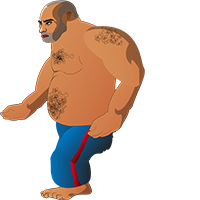
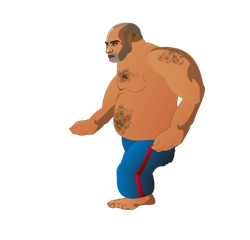
fixes
Fixed Android font
resized enemy images
fixed “const” problem in release version
fixed posting scores to FB
added native platform detection

diff --git a/src/anim/SplashAnim.js b/src/anim/SplashAnim.js
@@ -6,22 +6,22 @@
 
 import ui.View as View;
 import src.anim.Ball as Ball;
-import src.anim.BallView as BallView;
+import src.anim.Ballview as BallView;
 import animate;
 
-const FPS = 15;
-const TIME_firstBounce = 2;
-const TIME_secondBounce = 2;
-const TIME_thirdBounce = 2;
-const TIME_roll = 2;
-const X_firstHit = 1/3;
-const X_secondHit = 2/3;
-const X_thirdHit = 5/6;
-const Y_Floor = PiuPiuGlobals.winSize.height - PiuPiuConsts.fontSizeSmall;
-const BOUNCE_firstHit = 8;
-const BOUNCE_secondHit = 8;
-const BOUNCE_thirdHit = 5;
-const BOUNCE_roll = 3;
+/** @const */ var FPS = 15;
+/** @const */ var TIME_firstBounce = 2;
+/** @const */ var TIME_secondBounce = 2;
+/** @const */ var TIME_thirdBounce = 2;
+/** @const */ var TIME_roll = 2;
+/** @const */ var X_firstHit = 1/3;
+/** @const */ var X_secondHit = 2/3;
+/** @const */ var X_thirdHit = 5/6;
+/** @const */ var Y_Floor = PiuPiuGlobals.winSize.height - PiuPiuConsts.fontSizeSmall;
+/** @const */ var BOUNCE_firstHit = 8;
+/** @const */ var BOUNCE_secondHit = 8;
+/** @const */ var BOUNCE_thirdHit = 5;
+/** @const */ var BOUNCE_roll = 3;
 
 exports = Class(View, function(supr) {
     this.init = function (opts) {
@@ -30,11 +30,11 @@ exports = Class(View, function(supr) {
     };
 
     this.build = function () {
-        const BALL_SIZE = 32;
-        const FIRST_BOUNCE_TIME = 2000;
-        const SECOND_BOUNCE_TIME = 2000;
-        const THIRD_BOUNCE_TIME = 2000;
-        const FOURTH_BOUNCE_TIME = 2000;
+        /** @const */ var BALL_SIZE = 32;
+        /** @const */ var FIRST_BOUNCE_TIME = 2000;
+        /** @const */ var SECOND_BOUNCE_TIME = 2000;
+        /** @const */ var THIRD_BOUNCE_TIME = 2000;
+        /** @const */ var FOURTH_BOUNCE_TIME = 2000;
         this.Y_FLOOR = (PiuPiuGlobals.winSize.height - BALL_SIZE - PiuPiuConsts.fontSizeSmall);
 
         //  Points of ground hit

diff --git a/src/views/MainMenu.js b/src/views/MainMenu.js
@@ -5,9 +5,9 @@ import animate;
 
 import src.anim.MainMenuAnim as MainMenuAnim;
 
-const yGap = 10;
-const startY = 100;
-const widthRatio = 0.8;
+/** @const */ var yGap = 10;
+/** @const */ var startY = 100;
+/** @const */ var widthRatio = 0.8;
 
 exports = Class(ImageView, function (supr) {
     this.init = function (opts) {
@@ -206,11 +206,11 @@ exports = Class(ImageView, function (supr) {
         }
 
         this.isAnimatingFBLogin = true;
-        const SHAKE_TIME = 50;
-        const BIAS = 20;
-        const LEFT = (PiuPiuGlobals.winSize.width - this.FB_LOGO_SIZE - BIAS) / 2;
-        const RIGHT = (PiuPiuGlobals.winSize.width - this.FB_LOGO_SIZE + BIAS) / 2;
-        const CENTER = (PiuPiuGlobals.winSize.width - this.FB_LOGO_SIZE ) / 2;
+        /** @const */ var SHAKE_TIME = 50;
+        /** @const */ var BIAS = 20;
+        /** @const */ var LEFT = (PiuPiuGlobals.winSize.width - this.FB_LOGO_SIZE - BIAS) / 2;
+        /** @const */ var RIGHT = (PiuPiuGlobals.winSize.width - this.FB_LOGO_SIZE + BIAS) / 2;
+        /** @const */ var CENTER = (PiuPiuGlobals.winSize.width - this.FB_LOGO_SIZE ) / 2;
 
         animate(this.FBlogo).now({x: LEFT},SHAKE_TIME).
             then({x: CENTER}, SHAKE_TIME).
@@ -238,7 +238,7 @@ exports = Class(ImageView, function (supr) {
         }
 
         this.isAnimatingText = true;
-        const TEXT_TIME = 10000;
+        /** @const */ var TEXT_TIME = 10000;
 
         animate(this.FBtext).now({x: -1 * this.FBtext.style.width}, TEXT_TIME, animate.linear).
             then(this.resetFBText.bind(this));

diff --git a/src/Application.js b/src/Application.js
@@ -1,7 +1,7 @@
 import ui.StackView as StackView;
 import src.data.resources;
-import src.data.globals;
 import src.utilities.Utilities;
+import src.data.globals;
 import src.utilities.GameUtilities;
 import src.utilities.AudioUtilities;
 import src.utilities.AnimationUtilities;
@@ -22,8 +22,8 @@ import src.anim.LevelAnim as LevelAnim;
 
 import ui.TextView;
 
-const BOUNDS_WIDTH = 720;
-const BOUNDS_HEIGHT = 1280;
+/** @const */ var BOUNDS_WIDTH = 720;
+/** @const */ var BOUNDS_HEIGHT = 1280;
 
 exports = Class(GC.Application, function () {
 
@@ -39,7 +39,7 @@ exports = Class(GC.Application, function () {
             clip: true
         });
 
-        const ANIMATING_SCENES_TIME = 500;
+        /** @const */ var ANIMATING_SCENES_TIME = 500;
 
         this.splash = new Splash();
         this.mainMenu = new MainMenu();
@@ -172,7 +172,7 @@ exports = Class(GC.Application, function () {
     };
 
     this.showMenu = function() {
-        const SPLASH_TO_MENU_TIME = 1500;
+        /** @const */ var SPLASH_TO_MENU_TIME = 1500;
         clearTimeout(this.switchToMenu);
         this.mainMenu.checkFBstatus();
         dissolvePushScenes(this.rootView, this.mainMenu, SPLASH_TO_MENU_TIME, bind(this, function() {

diff --git a/src/anim/Enemy.js b/src/anim/Enemy.js
@@ -4,14 +4,14 @@
 
 import ui.SpriteView as SpriteView;
 
-const ENEMY_RUNNING_WIDTH = 250;
-const ENEMY_RUNNING_HEIGHT = 240;
-const ENEMY_STAND_WIDTH = ENEMY_RUNNING_WIDTH;
-const ENEMY_STAND_HEIGHT = ENEMY_RUNNING_HEIGHT;
-const ENEMY_DEAD_WIDTH = ENEMY_RUNNING_WIDTH;
-const ENEMY_DEAD_HEIGHT = ENEMY_RUNNING_HEIGHT;
-const ENEMY_HEADSHOT_WIDTH = ENEMY_RUNNING_WIDTH;
-const ENEMY_HEADSHOT_HEIGHT = ENEMY_RUNNING_HEIGHT;
+/** @const */ var ENEMY_RUNNING_WIDTH = 250;
+/** @const */ var ENEMY_RUNNING_HEIGHT = 240;
+/** @const */ var ENEMY_STAND_WIDTH = ENEMY_RUNNING_WIDTH;
+/** @const */ var ENEMY_STAND_HEIGHT = ENEMY_RUNNING_HEIGHT;
+/** @const */ var ENEMY_DEAD_WIDTH = ENEMY_RUNNING_WIDTH;
+/** @const */ var ENEMY_DEAD_HEIGHT = ENEMY_RUNNING_HEIGHT;
+/** @const */ var ENEMY_HEADSHOT_WIDTH = ENEMY_RUNNING_WIDTH;
+/** @const */ var ENEMY_HEADSHOT_HEIGHT = ENEMY_RUNNING_HEIGHT;
 
 exports = Class(SpriteView, function(supr) {
 	this.init = function (opts) {

diff --git a/src/anim/LevelAnim.js b/src/anim/LevelAnim.js
@@ -35,7 +35,7 @@ exports = Class(ImageView, function(supr) {
     };
 
     this.animateLevel = function () {
-        const ANIM_TIMEOUT = 10000;
+        /** @const */ var ANIM_TIMEOUT = 10000;
         this.levelText.show();
 
         //  Invoke animation function
@@ -62,9 +62,9 @@ exports = Class(ImageView, function(supr) {
 
     this.animateLevel1 = function () {
         //  consts
-        const Y_FLOOR = PiuPiuGlobals.winSize.height - PiuPiuConsts.fontSizeSmall;
-        const ENTERING_TIME = 1500;
-        const SHOOT_TIME = 800;
+        /** @const */ var Y_FLOOR = PiuPiuGlobals.winSize.height - PiuPiuConsts.fontSizeSmall;
+        /** @const */ var ENTERING_TIME = 1500;
+        /** @const */ var SHOOT_TIME = 800;
 
         this.clearAll();
 

diff --git a/src/utilities/Utilities.js b/src/utilities/Utilities.js
@@ -2,6 +2,8 @@
  * Created by shirkan on 11/24/14.
  */
 
+import device;
+
 exports
 {
     isNumber = function (n) {
@@ -24,15 +26,15 @@ exports
     }
 
     isRunningOnAndroid = function () {
-        //return (cc.sys.platform == cc.sys.ANDROID);
+        return device.isAndroid;
     }
 
     isRunningOniOS = function () {
-        //return (cc.sys.platform == cc.sys.IPAD || cc.sys.platform == cc.sys.IPHONE);
+        return device.isIOS;
     }
 
     isRunningOnMobile = function () {
-        return (cc.sys.isMobile);
+        return device.isMobileNative;
     }
 
     isDebugMode = function () {

diff --git a/src/game/Enemies.js b/src/game/Enemies.js
@@ -9,14 +9,14 @@ import src.anim.Enemy as EnemyAnim;
 
 import animate;
 
-const BODY_X = 125;
-const BODY_Y = 60;
-const BODY_WIDTH = 50;
-const BODY_HEIGHT = 144;
-const HEAD_X = 125;
-const HEAD_Y = 25;
-const HEAD_WIDTH = 25;
-const HEAD_HEIGHT = 35;
+/** @const */ var BODY_X = 125;
+/** @const */ var BODY_Y = 60;
+/** @const */ var BODY_WIDTH = 50;
+/** @const */ var BODY_HEIGHT = 144;
+/** @const */ var HEAD_X = 125;
+/** @const */ var HEAD_Y = 25;
+/** @const */ var HEAD_WIDTH = 25;
+/** @const */ var HEAD_HEIGHT = 35;
 
 //  Setting w,h to avoid image hitbounds auto-config
 var enemyConfig = {

diff --git a/src/game/Status.js b/src/game/Status.js
@@ -7,9 +7,9 @@ import ui.ImageView as ImageView;
 import ui.TextView as TextView;
 import animate;
 
-const LIFE_WIDTH = 40;
-const LIFE_HEIGHT = 60;
-const positiveSentences = ["YEAH!!!", "You are the man!", "Beat'em all!", "This is how it should be done!", "MASTER!",
+/** @const */ var LIFE_WIDTH = 40;
+/** @const */ var LIFE_HEIGHT = 60;
+/** @const */ var positiveSentences = ["YEAH!!!", "You are the man!", "Beat'em all!", "This is how it should be done!", "MASTER!",
 	"They keep underestimating you!", "Way to go man!", "Ay Caramba!", "SWEET!", "KABOOM!"];
 
 exports = Class(View, function (supr) {

diff --git a/src/utilities/GameUtilities.js b/src/utilities/GameUtilities.js
@@ -295,7 +295,7 @@ exports
 
     handleHighScore = function () {
         var currentHighScore = Math.max(PiuPiuGlobals.highScore, PiuPiuGlobals.currentScore);
-        var storedHighScore = (localStorage.highScore ? localStorage.highScore : 0);
+        var storedHighScore = loadData("highScore") || 0;
 
         //  We retrieve FB high score on log-in so it should be updated by now.
         var FBHighscore = (PiuPiuGlobals.FBdata ? PiuPiuGlobals.FBdata.score : 0);

diff --git a/src/anim/Ballview.js b/src/anim/Ballview.js
@@ -4,8 +4,8 @@
 
 import ui.View as View;
 
-const BALL_WIDTH = 32;
-const BALL_HEIGHT = 32;
+/** @const */ var BALL_WIDTH = 32;
+/** @const */ var BALL_HEIGHT = 32;
 
 exports = Class(View, function(supr) {
 	this.init = function (opts) {
@@ -14,7 +14,7 @@ exports = Class(View, function(supr) {
 			name: "ballView",
 			zIndex: PiuPiuConsts.statusZIndex,
 			width: BALL_WIDTH,
-			height: BALL_HEIGHT,
+			height: BALL_HEIGHT
 		});
 
 		supr(this, 'init', [opts]);

diff --git a/src/data/resources.js b/src/data/resources.js
@@ -38,7 +38,7 @@ exports
         //  Game
         EnemyBig_png : "resources/images/game/enemy.png",
         Enemy_png : "resources/images/game/enemy_mid.png",
-        Enemy_anim : "resources/images/game/enemy/orig/enemy",
+        Enemy_anim : "resources/images/game/enemy/enemy",
         Player_png : "resources/images/game/player.png",
         Hands_png : "resources/images/game/hands.png",
         Hands_plist: "resources/images/game/hands.plist",

diff --git a/src/utilities/FButilities.js b/src/utilities/FButilities.js
@@ -158,7 +158,7 @@ exports
             return;
         }
 
-        FB.api("/me/scores", "POST", {"score" : score}, function (response) {
+        FB.api("/me/scores", "POST", {"score" : score.toString()}, function (response) {
             if (response) {
                 LOG("FBpostHighScore succeed: " + JSON.stringify(response));
                 //  Invoke FBgetScore to verify written data and update local variable
